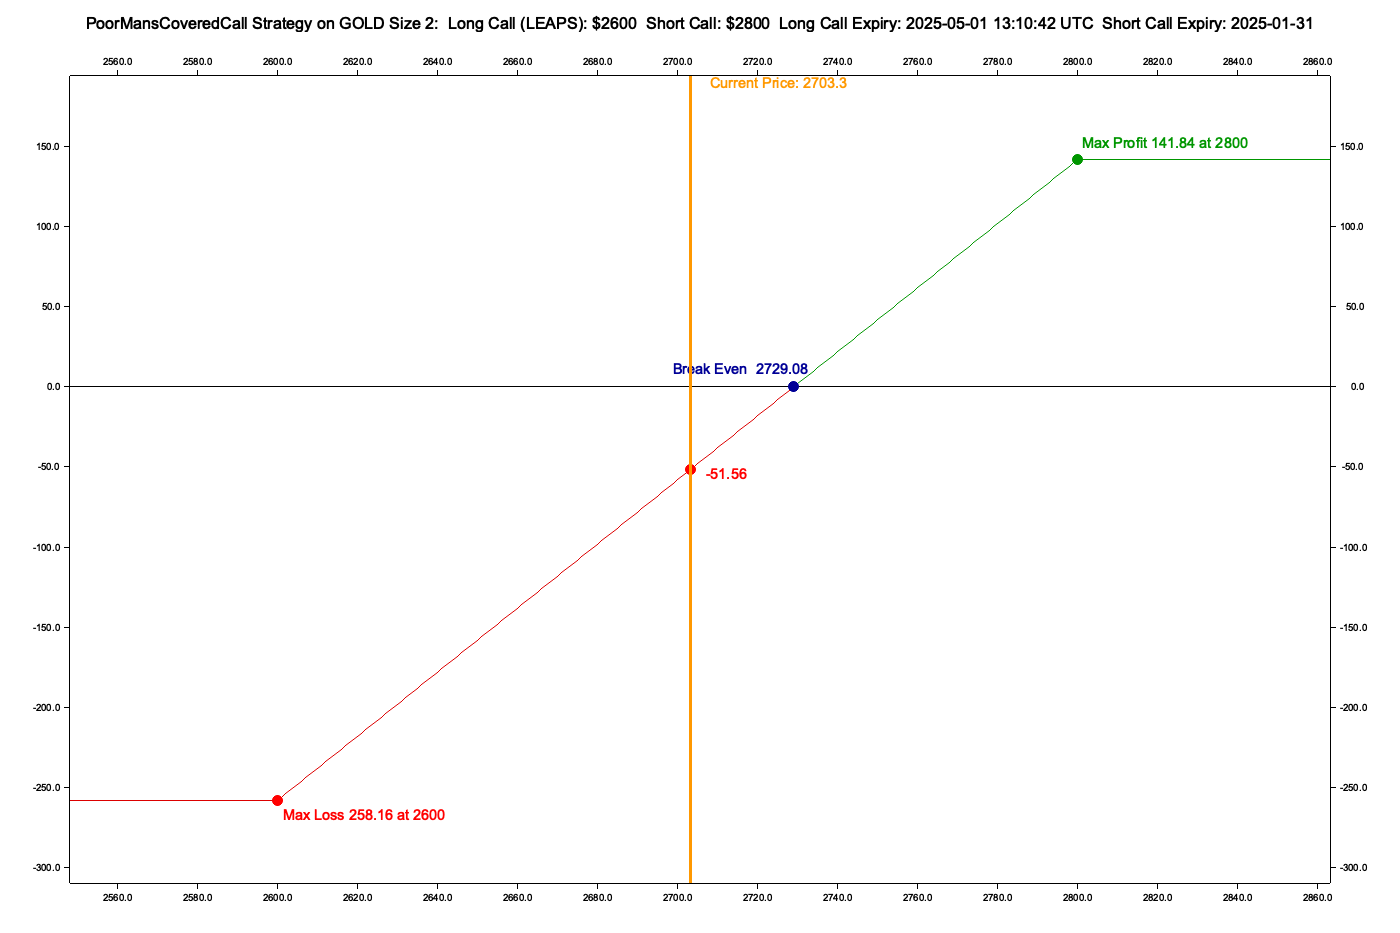
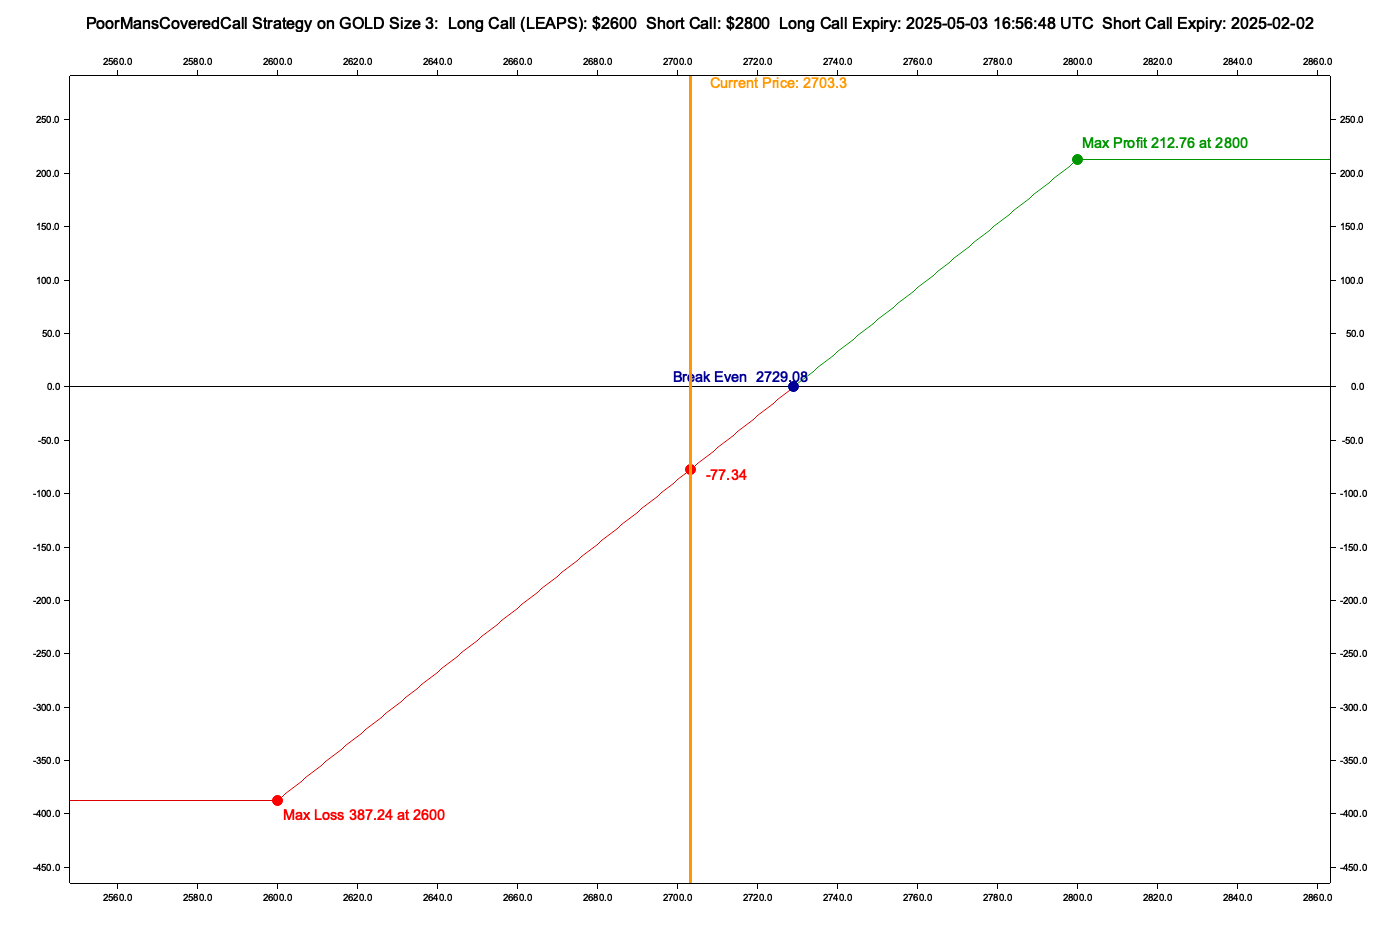
Refactor poor man's covered call strategy calculations.
Removed unused `fees` function and adjusted quantity in example to 3 for consistency. Minor changes include computation tweaks for break-even points and updated chart resources. (ref. #83)

diff --git a/src/strategies/poor_mans_covered_call.rs b/src/strategies/poor_mans_covered_call.rs
@@ -155,6 +155,7 @@ impl PoorMansCoveredCall {
         // Calculate break-even point
         let net_debit =
             (strategy.long_call.max_loss() - strategy.short_call.max_profit()) / quantity;
+
         strategy
             .break_even_points
             .push(long_call_strike + net_debit);
@@ -232,14 +233,6 @@ impl Strategies for PoorMansCoveredCall {
     fn net_premium_received(&self) -> Result<Decimal, StrategyError> {
         let restult =
             self.long_call.net_premium_received() + self.short_call.net_premium_received();
-        Ok(Decimal::from_f64(restult).unwrap())
-    }
-
-    fn fees(&self) -> Result<Decimal, StrategyError> {
-        let restult = (self.long_call.open_fee + self.long_call.close_fee)
-            * self.long_call.option.quantity
-            + (self.short_call.open_fee + self.short_call.close_fee)
-                * self.short_call.option.quantity;
         Ok(Decimal::from_f64(restult).unwrap())
     }
 

diff --git a/examples/examples_strategies/src/bin/strategy_poor_mans_covered_call.rs b/examples/examples_strategies/src/bin/strategy_poor_mans_covered_call.rs
@@ -30,7 +30,7 @@ fn main() -> Result<(), Box<dyn Error>> {
         pos!(0.17),                  // implied_volatility
         dec!(0.05),                  // risk_free_rate
         Positive::ZERO,              // dividend_yield
-        pos!(2.0),                   // quantity
+        pos!(3.0),                   // quantity
         154.7,                       // premium_short_call
         30.8,                        // premium_short_put
         1.74,                        // open_fee_short_call
